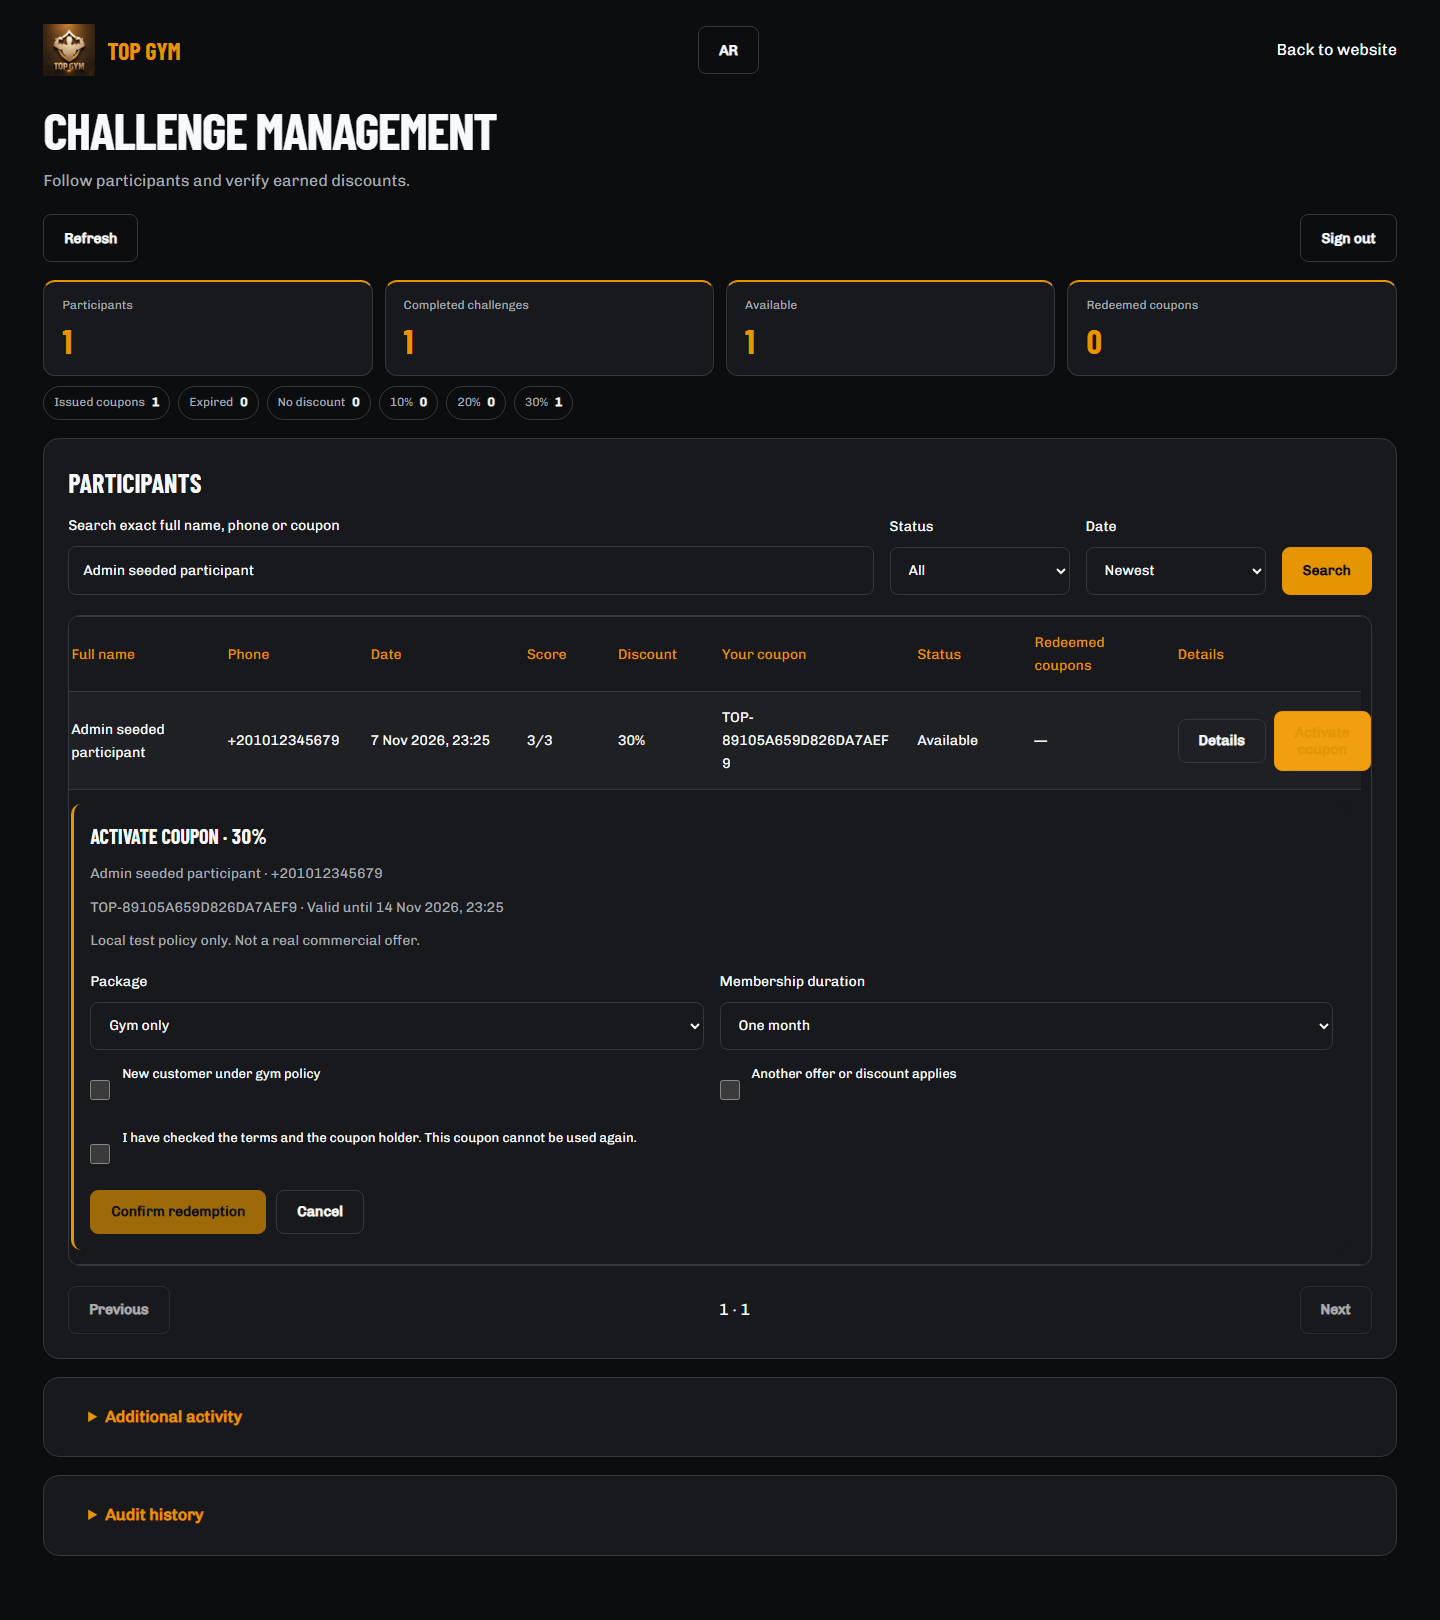
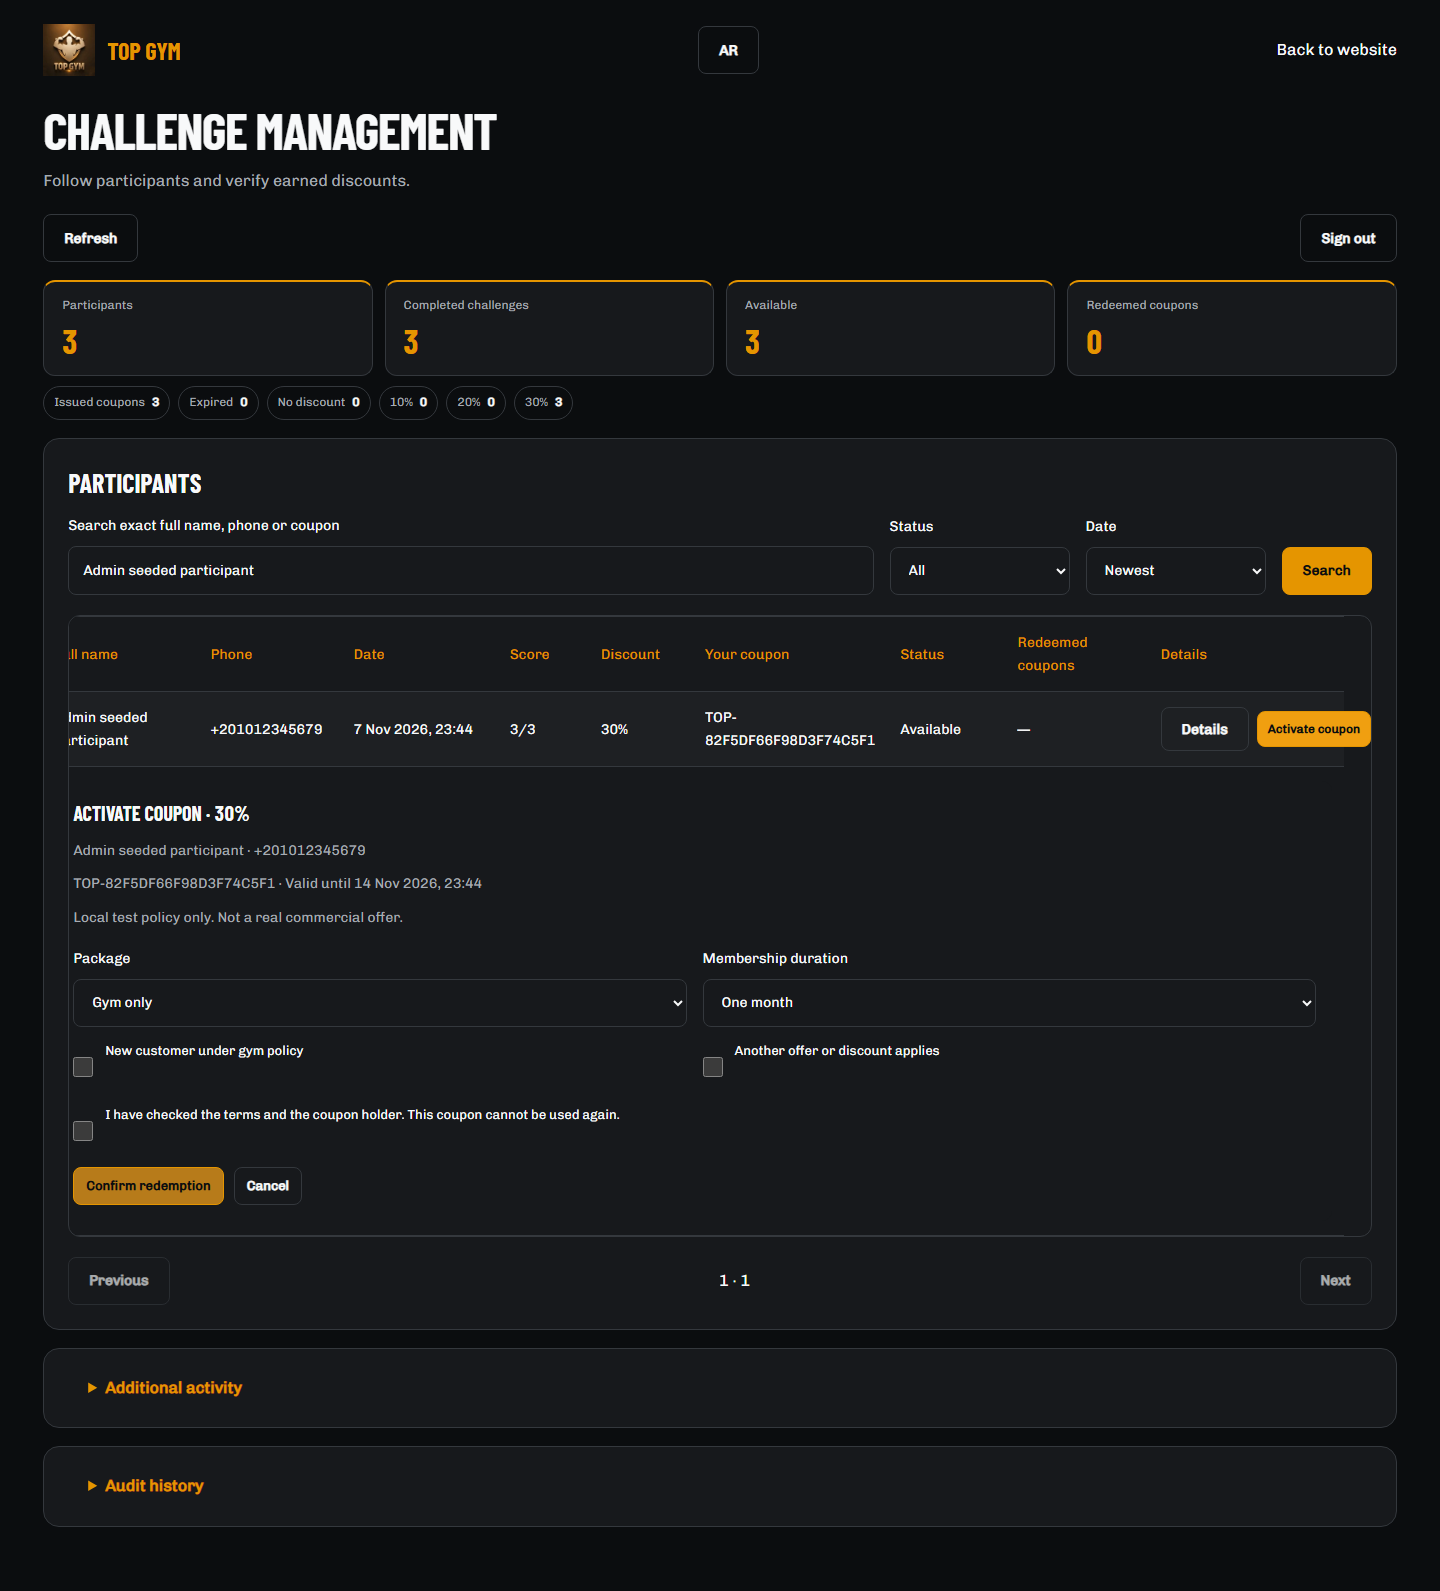
fix(admin): clarify coupon activation and Arabic terms

diff --git a/src/i18n/challenge.ts b/src/i18n/challenge.ts
@@ -142,6 +142,8 @@ export const challengeCopy = {
     cancel: 'إلغاء',
     moreStats: 'إحصاءات إضافية',
     confirmRedeem: 'أؤكد مراجعة الشروط وهوية صاحب الكوبون. لا يمكن استخدامه مرة ثانية.',
+    couponTermsFallback:
+      'الكوبون صالح لمدة 30 يومًا من تاريخ إصداره، ويُستخدم مرة واحدة للعملاء الجدد فقط على أي اشتراك متاح في باقة حديد أو حديد وكارديو وبأي مدة. لا يمكن دمجه مع أي عرض أو خصم آخر. تتحدد نسبة الخصم وفقًا لنتيجة التحدي، بحد أقصى 30%. يُرجى تقديم الكوبون للجيم قبل إتمام الاشتراك؛ ويعتمد قبوله على أن يكون صالحًا وغير مستخدم.',
     audit: 'سجل العمليات',
     events: 'أحداث التحويل',
     mailJobs: 'حالة إشعارات البريد',
@@ -297,6 +299,8 @@ export const challengeCopy = {
     moreStats: 'Additional activity',
     confirmRedeem:
       'I have checked the terms and the coupon holder. This coupon cannot be used again.',
+    couponTermsFallback:
+      'The coupon is valid for 30 days from issue and may be used once by new customers only on any available Gym or Gym + Cardio package and duration. It cannot be combined with another offer or discount. The discount percentage is determined by the challenge result, up to 30%. Present the coupon to the gym before completing the membership; final acceptance depends on the coupon being valid and unused.',
     audit: 'Audit history',
     events: 'Conversion events',
     mailJobs: 'Email notification status',

diff --git a/src/styles/challenge.css b/src/styles/challenge.css
@@ -682,7 +682,28 @@ html[dir='rtl'] .admin-access-dialog h2 {
 }
 .challenge-admin table .challenge-admin-activate {
   border-color: var(--color-gold);
-  color: var(--color-gold);
+  color: var(--color-canvas);
+  background: var(--color-gold);
+  min-height: 36px;
+  padding: 8px 10px;
+  font-size: 12px;
+  line-height: 1.2;
+  white-space: nowrap;
+}
+.challenge-admin table .challenge-admin-activate:hover {
+  color: var(--color-canvas);
+  background: var(--color-hover);
+}
+.challenge-admin .challenge-admin-activation-actions button {
+  min-height: 38px;
+  padding: 8px 12px;
+  font-size: 13px;
+}
+.challenge-admin .challenge-admin-activation-actions .challenge-primary:disabled {
+  opacity: 1;
+  color: var(--color-canvas);
+  background: #b77b1a;
+  cursor: not-allowed;
 }
 .challenge-admin-activation {
   padding: 16px;
@@ -837,7 +858,8 @@ html[dir='rtl'] .admin-access-dialog h2 {
     flex-wrap: wrap;
   }
   .challenge-admin-row-actions button {
-    flex: 1 1 auto;
+    flex: 0 1 auto;
+    max-width: 100%;
   }
   .challenge-admin-table tbody tr.challenge-admin-action-row {
     display: block;

diff --git a/src/scripts/challenge-admin.ts b/src/scripts/challenge-admin.ts
@@ -1,6 +1,7 @@
 import { challengeCopy, challengeError, type ChallengeLocale } from '../i18n/challenge';
 import { challengeApi, ApiError } from './challenge-api';
 import { adminPasswordForm } from './admin-password-form';
+import { localizedChallengeTerms } from './challenge-terms';
 const node = <K extends keyof HTMLElementTagNameMap>(tag: K, text?: string, className?: string) => {
   const n = document.createElement(tag);
   if (text) n.textContent = text;
@@ -367,7 +368,7 @@ export async function initAdmin() {
         node('h3', `${c.activateCoupon} · ${coupon.discount}%`),
         node('p', `${coupon.participant.name} · ${coupon.phone}`),
         node('p', `${coupon.code} · ${c.expires} ${format(coupon.expiresAt)}`),
-        node('p', coupon.terms[locale]),
+        node('p', localizedChallengeTerms(coupon.terms, locale)),
       );
       if (coupon.redemption)
         card.append(node('p', c.redeemed + ' ' + format(coupon.redemption.redeemed_at)));

diff --git a/tests/unit/challenge-terms.test.ts b/tests/unit/challenge-terms.test.ts
@@ -1,0 +1,23 @@
+import { describe, expect, it } from 'vitest';
+import { localizedChallengeTerms } from '../../src/scripts/challenge-terms';
+
+describe('localized challenge coupon terms', () => {
+  it('uses the Arabic display copy when production policy text is question marks', () => {
+    const result = localizedChallengeTerms(
+      { ar: '?????? ??? 30 ????? ??? ????? ?????', en: 'Valid for 30 days.' },
+      'ar',
+    );
+    expect(result).toContain('30 يومًا');
+    expect(result).toMatch(/[\u0600-\u06ff]/u);
+    expect(result).not.toContain('????');
+  });
+
+  it('preserves valid policy copy in both languages', () => {
+    expect(localizedChallengeTerms({ ar: 'شروط كوبون سليمة', en: 'Valid terms.' }, 'ar')).toBe(
+      'شروط كوبون سليمة',
+    );
+    expect(localizedChallengeTerms({ ar: 'شروط كوبون سليمة', en: 'Valid terms.' }, 'en')).toBe(
+      'Valid terms.',
+    );
+  });
+});

diff --git a/src/scripts/challenge-terms.ts b/src/scripts/challenge-terms.ts
@@ -1,0 +1,18 @@
+import { challengeCopy, type ChallengeLocale } from '../i18n/challenge';
+
+type LocalizedTerms = { ar?: string; en?: string } | undefined;
+
+/** Replace policy text corrupted during deployment with the accurate bilingual display copy. */
+export function localizedChallengeTerms(terms: LocalizedTerms, locale: ChallengeLocale): string {
+  const value = terms?.[locale]?.trim();
+  if (!value) return challengeCopy[locale].couponTermsFallback;
+
+  // Arabic must contain Arabic script and must not contain replacement question-mark runs.
+  if (
+    locale === 'ar' &&
+    (!/[\u0600-\u06ff]/u.test(value) || /\?{2,}/u.test(value) || value.includes('\ufffd'))
+  )
+    return challengeCopy.ar.couponTermsFallback;
+
+  return value;
+}

diff --git a/src/scripts/challenge.ts b/src/scripts/challenge.ts
@@ -3,6 +3,7 @@ import { playMotion } from './motion';
 import { motion } from '../config/motion';
 import { challengeApi, ApiError } from './challenge-api';
 import { challengeAttribution, challengeEvent } from './challenge-attribution';
+import { localizedChallengeTerms } from './challenge-terms';
 
 type Localized = { ar: string; en: string };
 interface State {
@@ -63,7 +64,7 @@ export function initChallenge() {
   const terms = (text: Localized | undefined) => {
     if (text) {
       const d = el('details', undefined, 'challenge-terms');
-      d.append(el('summary', c.terms), el('p', text[locale]));
+      d.append(el('summary', c.terms), el('p', localizedChallengeTerms(text, locale)));
       stage.append(d);
     }
   };

diff --git a/docs/PROGRESS.md b/docs/PROGRESS.md
@@ -8,6 +8,10 @@ Reorganized the challenge admin overview into four primary metrics plus compact 
 
 Validation: typecheck, lint, production build, and all 38 isolated challenge browser tests passed. The tests verified row-based activation, eligibility confirmation, successful redemption, refreshed status and metrics, Arabic and English, responsive administration at 320/390/768/1440px, and accessibility checks. Screenshots: [Arabic mobile](evidence/challenge/admin-ar-320.png), [Arabic desktop](evidence/challenge/admin-ar-1440.png), [English desktop](evidence/challenge/admin-en-1440.png), and [coupon activation](evidence/challenge/admin-activate-en-1440.png). No production customer or coupon data was used.
 
+## Coupon text and activation button — 7 November 2026
+
+Production `/challenge/info` returned the approved English policy normally, but its Arabic `terms` field is literally stored as question marks. Added a defensive Arabic display fallback that translates the exact existing English policy for both the public challenge and admin coupon details when that malformed value is received. The row activation button is now smaller with dark, high-contrast text; the confirmation button is compact and remains legible while disabled. The local UI path is covered with a unit test. The backend policy source still needs correction so every API consumer receives valid Arabic; its Vercel server-only backend host was not available through the permitted local access and no unrelated VPS was touched.
+
 ## Ten-second timer and rapid logo entry — 7 November 2026
 
 The owner requested ten seconds per question and reported that the logo entry did not work. See [implementation, migration, reproduction and release checks](CHALLENGE_TIMER_UPDATE.md). Earlier five-second records describe the previous release. The prior closed state was superseded; see [current production status](CHALLENGE_LIVE_STATUS.md).
